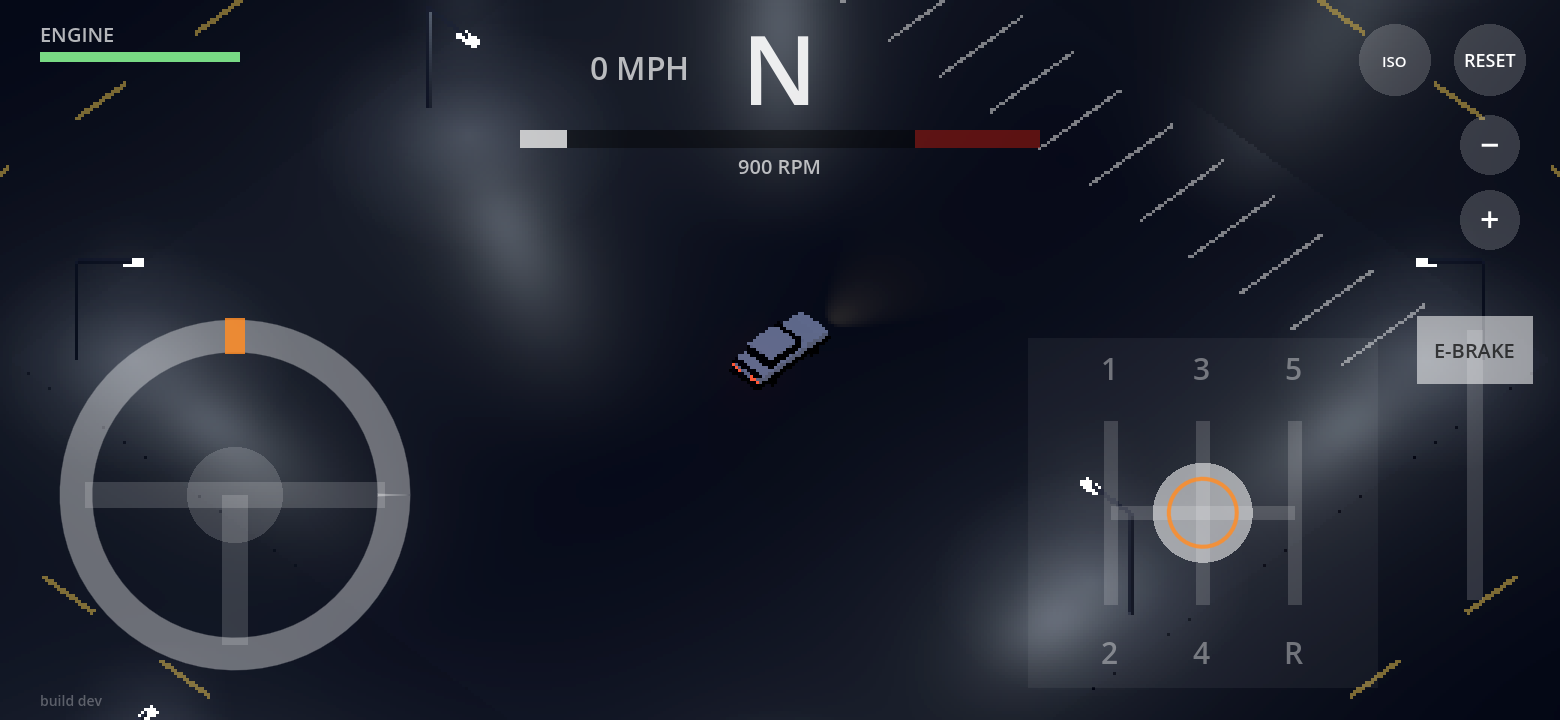
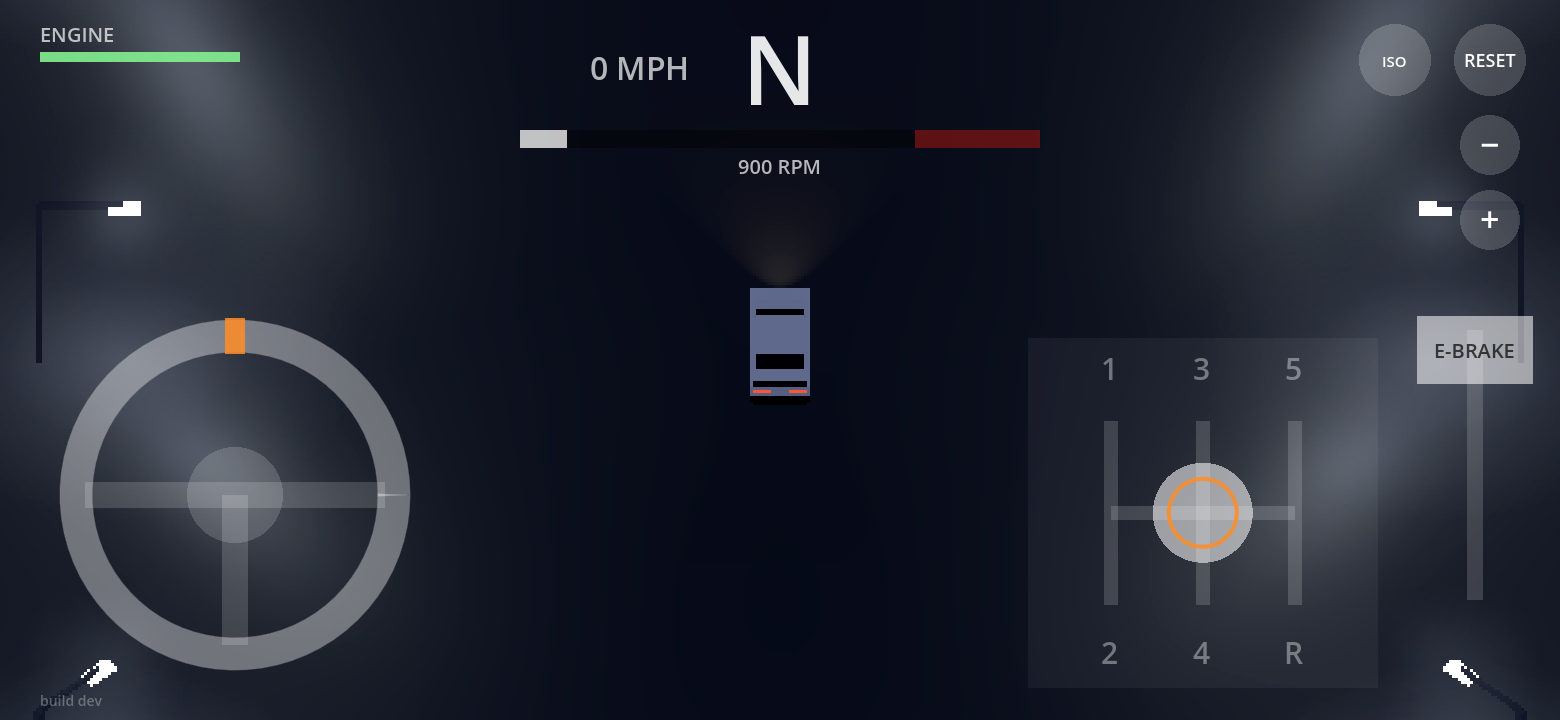
Isometric camera now swings around behind the car
Fixed corner view made it hard to tell which way to drive. ISO keeps the flat
orthographic look but follows the car's direction like the 3D cam, so up on
screen is always forward. Toggle is now ISO / 3D.

Claude-Session: https://claude.ai/code/session_01X5D3N9oUK59uFhYSHv3wU5

diff --git a/README.md b/README.md
@@ -33,7 +33,7 @@ Built in Godot 4.7.
 | Steer | Twist the wheel (bottom-left). Let go and it spins back to center | A / D or arrows | Left stick |
 | Shift | Drag the knob through the H gate (bottom-right) | 1-5, N or 0, R | R1 up / L1 down |
 | E-brake | Pull the lever down (far right) | Space | B or L2 |
-| Camera | ISO / FOLLOW button (top-right) toggles fixed isometric vs chase cam | V | Select |
+| Camera | ISO / 3D button (top-right): flat isometric or perspective, both behind the car | V | Select |
 | Zoom | Pinch anywhere empty, or the − / + buttons (top-right) | - / = or mouse wheel | Y / X |
 | Reset | RESET (top-right) | Enter | Start |
 
@@ -58,7 +58,7 @@ Everything is built in code from `scripts/main.gd`, no scene editing needed.
 | `scripts/hud.gd` | Gear, tach, speed, engine health, drift points |
 | `scripts/neighborhood.gd` | The night suburb and street lights |
 | `scripts/car_model.gd` | Placeholder car, skid marks, smoke, brake lights |
-| `scripts/chase_camera.gd` | Fixed isometric or high chase camera, with zoom (both remembered) |
+| `scripts/chase_camera.gd` | Isometric or perspective chase camera, with zoom (both remembered) |
 | `scripts/haptics.gd` | Vibration on gear changes |
 | `tests/test_drive.gd` | Automated test: launches, shifts, drifts, blows the engine |
 
